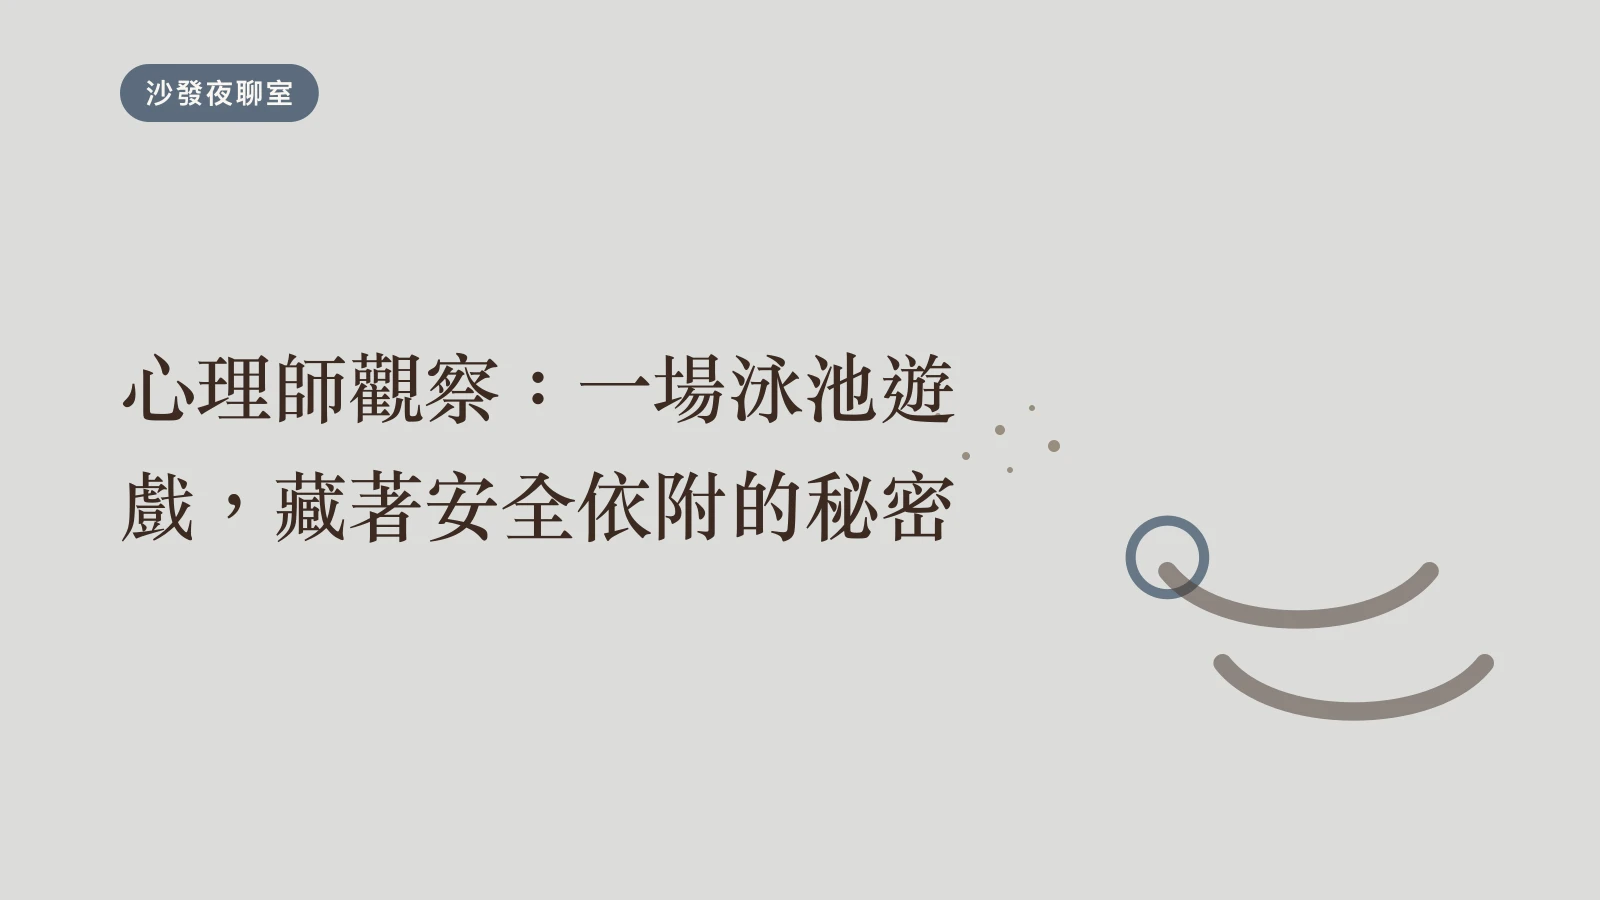
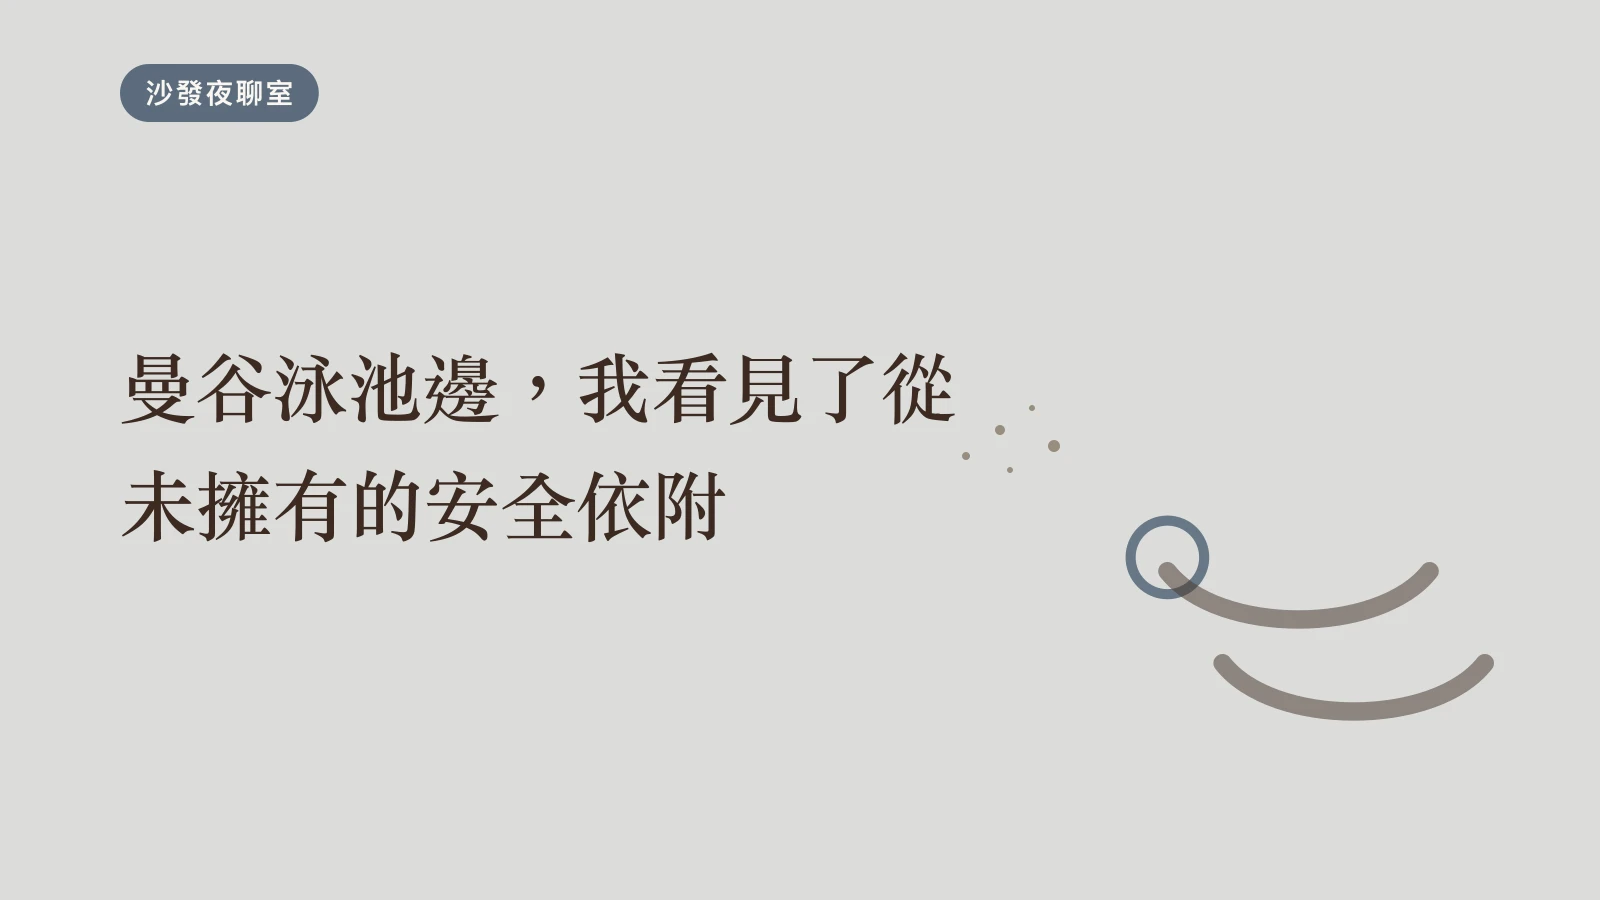
content: 更新〈曼谷泳池邊，我看見了從未擁有的安全依附〉標題

Changed region(s): [[0.0625, 0.3733, 0.5938, 0.4667], [0.0625, 0.5289, 0.2812, 0.6222], [0.4375, 0.5289, 0.5938, 0.6222]]

diff --git a/src/content/articles/pool-side-secure-attachment.md b/src/content/articles/pool-side-secure-attachment.md
@@ -1,5 +1,5 @@
 ---
-title: 心理師觀察：一場泳池遊戲，藏著安全依附的秘密
+title: 曼谷泳池邊，我看見了從未擁有的安全依附
 date: 2026-08-21T00:00:00.000Z
 category: 沙發夜聊室
 tags:
